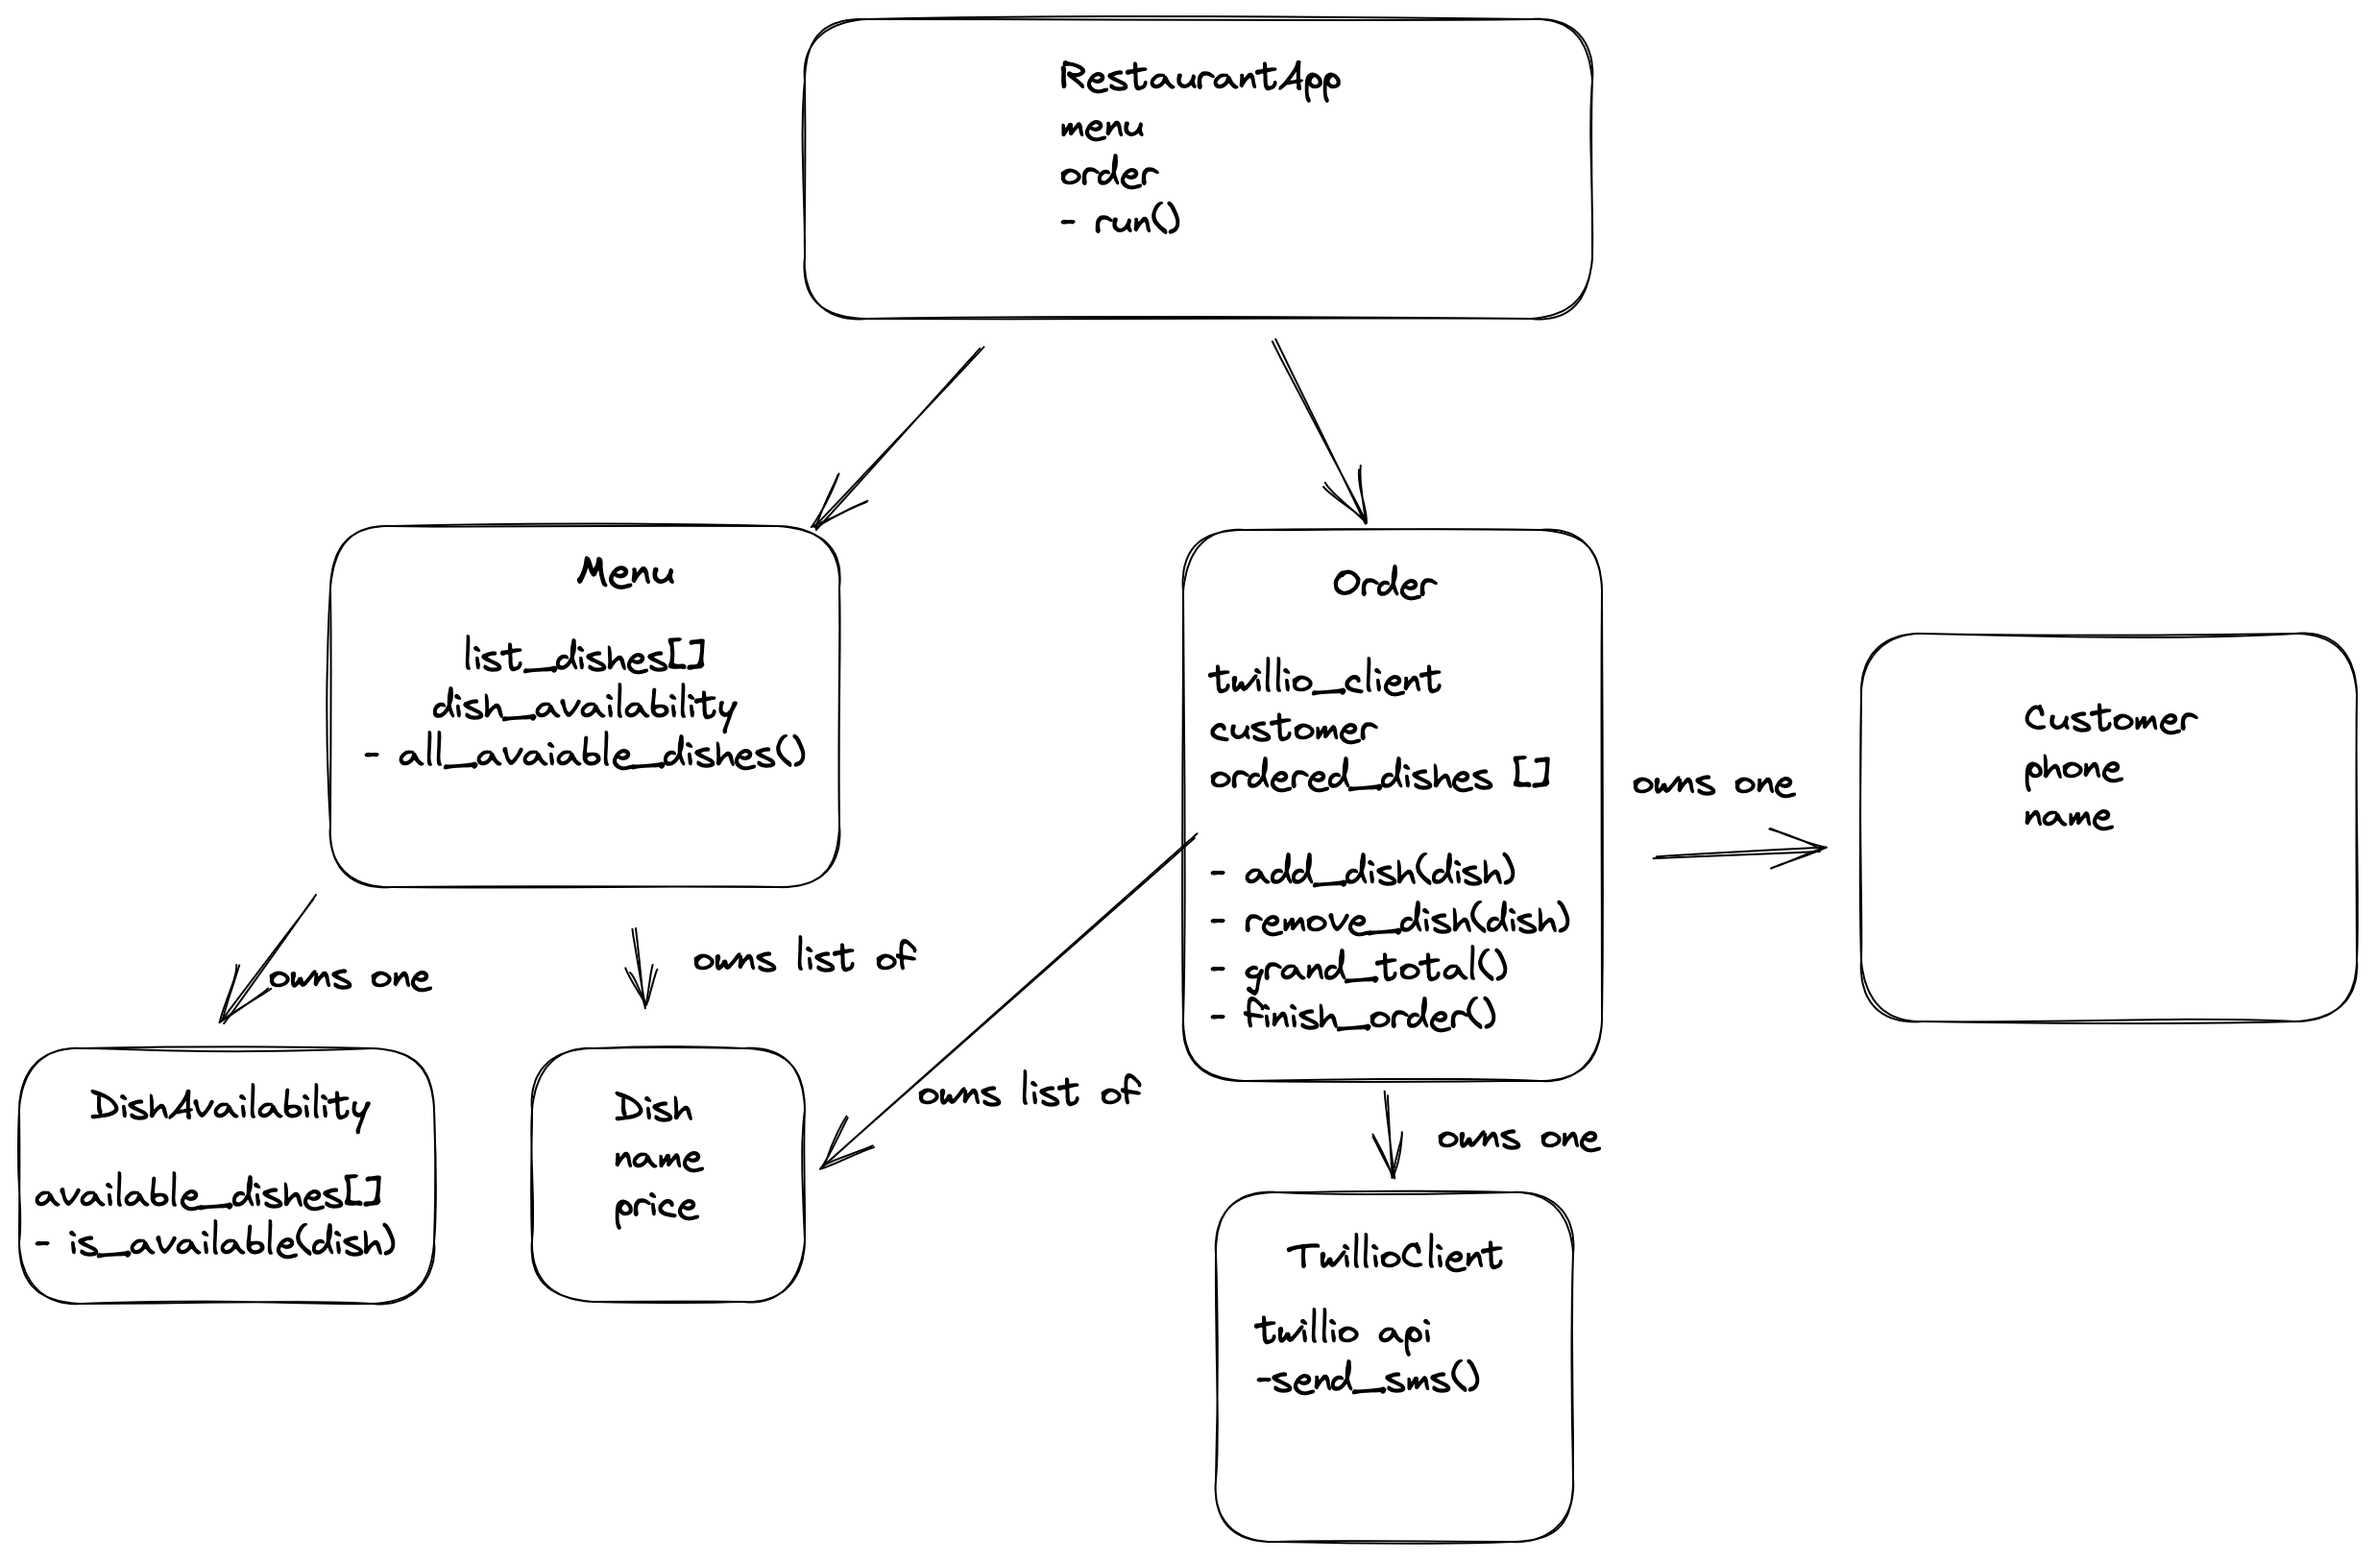
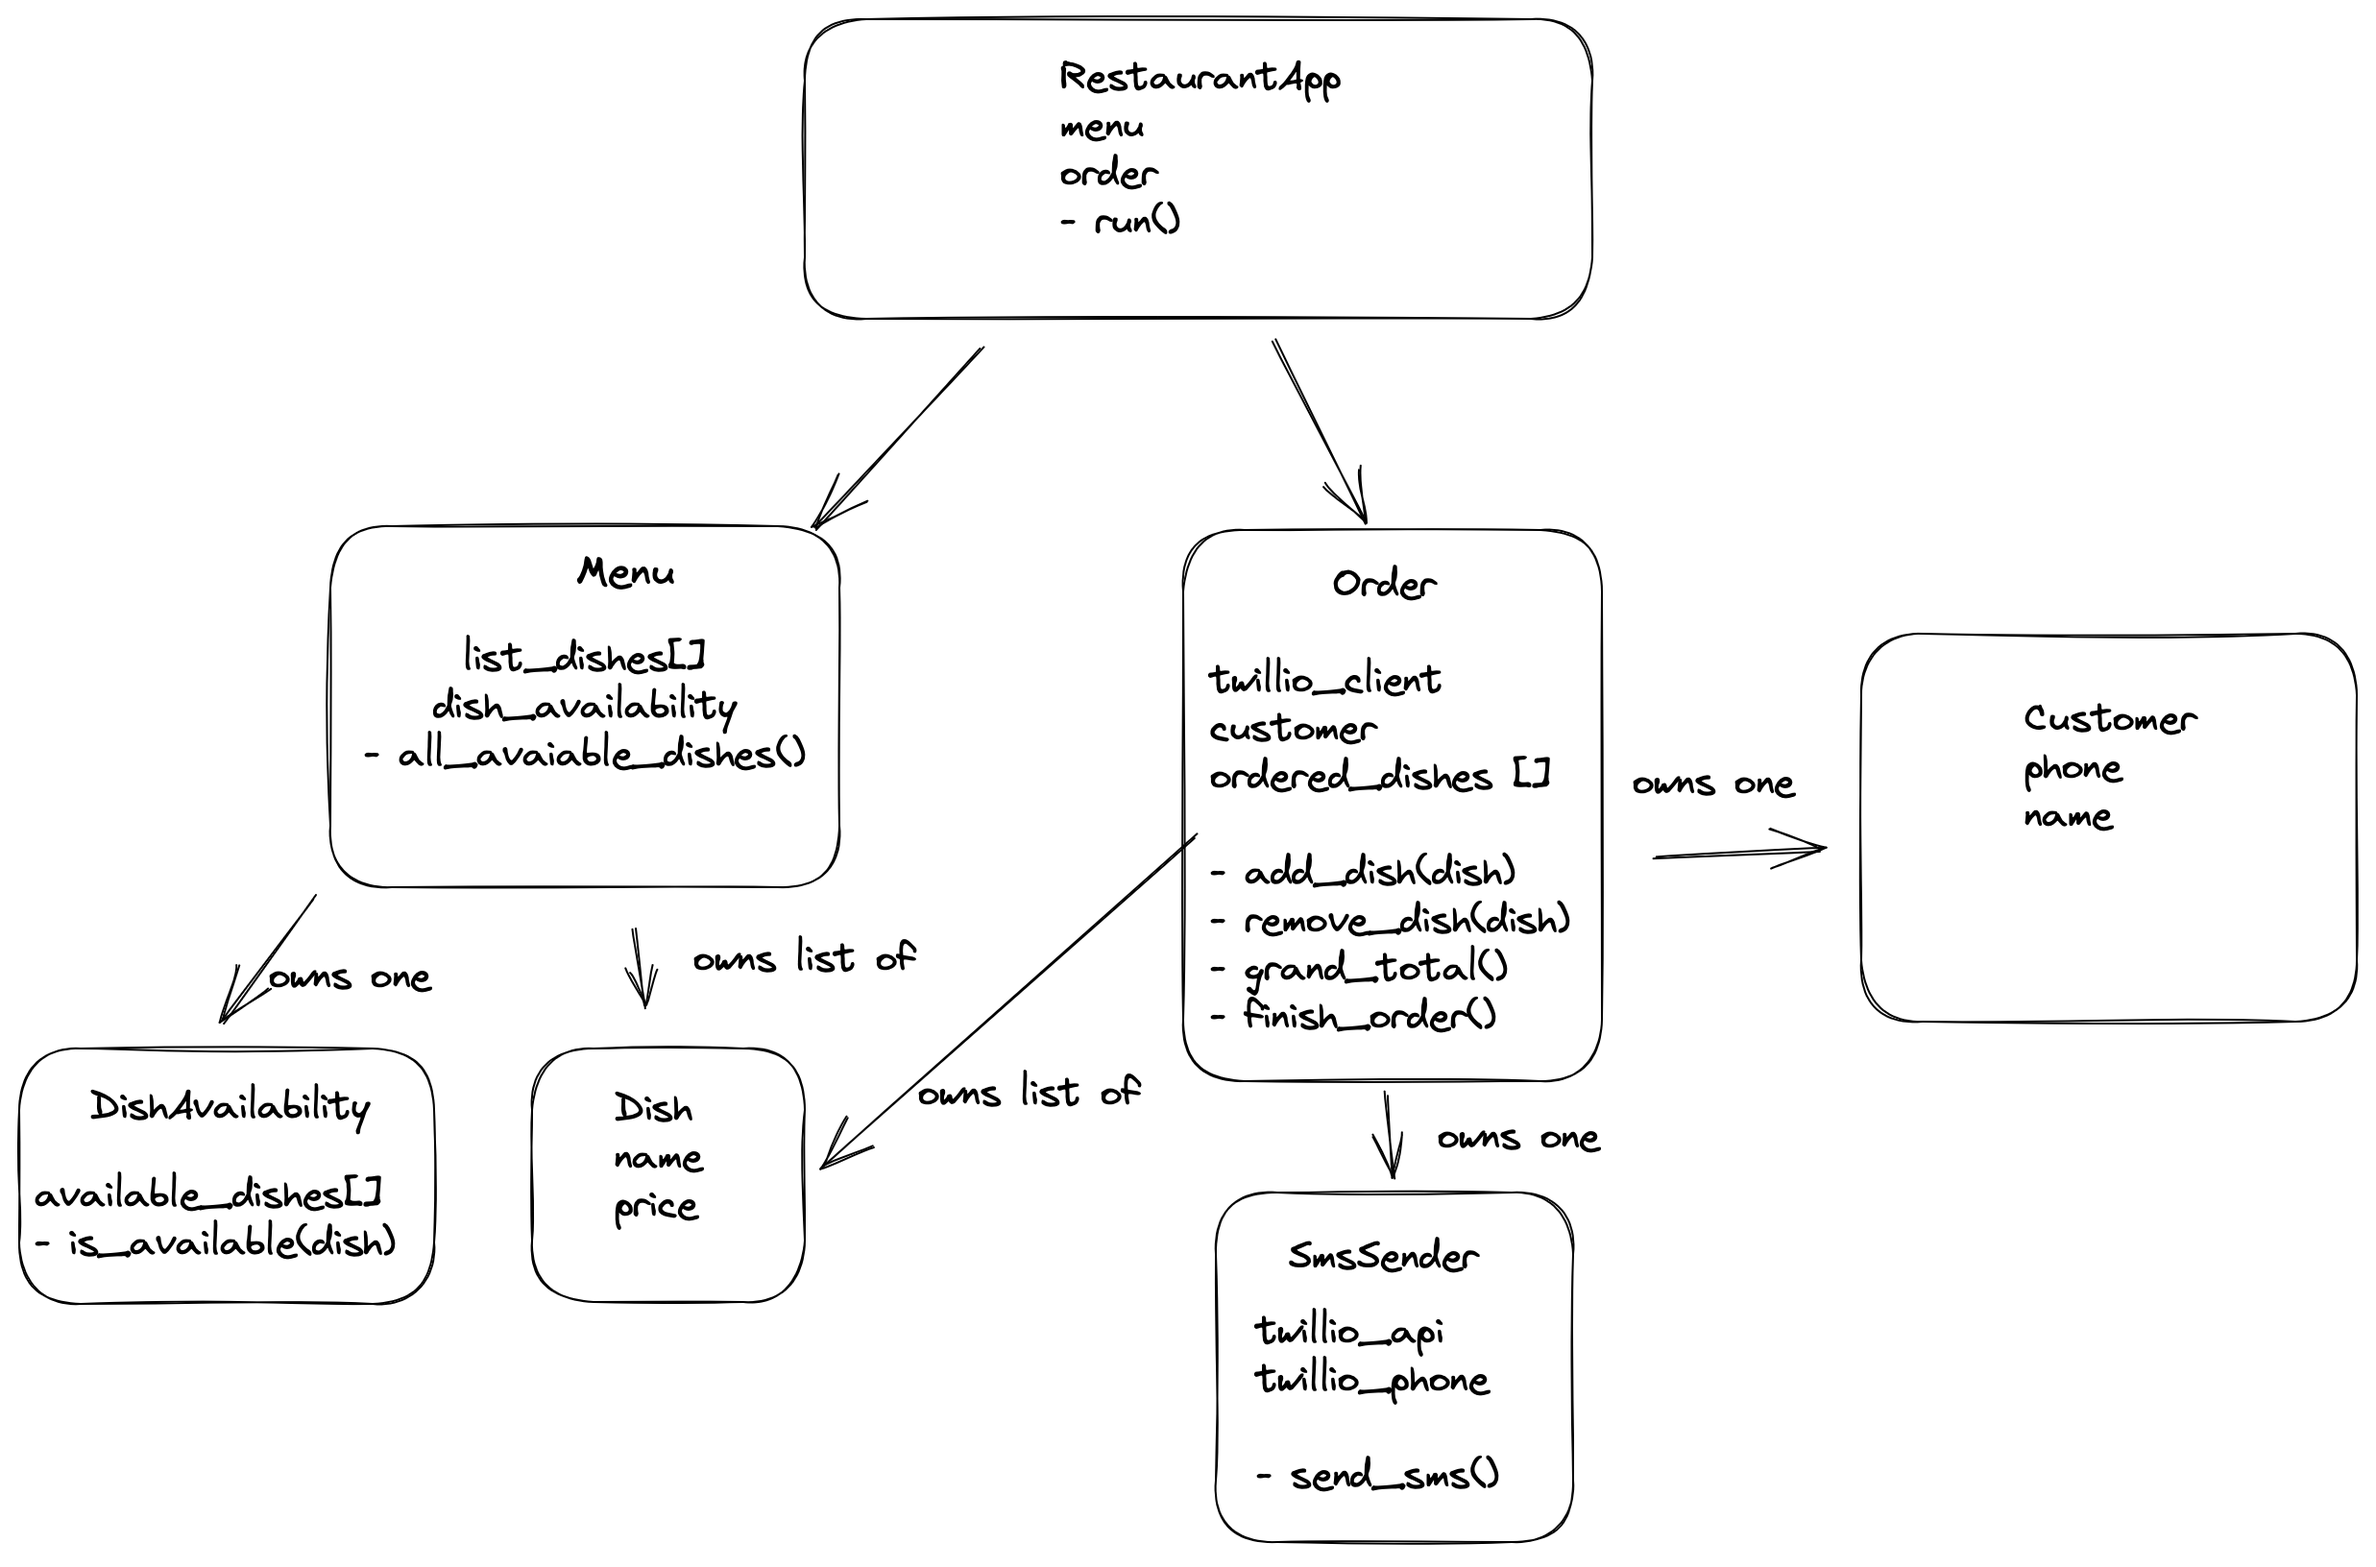
Rename TwillioClient class to SmsSender

diff --git a/spec/order_spec.rb b/spec/order_spec.rb
@@ -6,9 +6,9 @@ describe Order do
     it "should print all dishes added" do
     
       fake_customer = double :fake_customer
-      twillio_fake = double :twillio_fake
+      sms_sender_fake = double :twillio_fake
     
-      order = Order.new(fake_customer, twillio_fake)
+      order = Order.new(fake_customer, sms_sender_fake)
       fake_dish_1 = double :dish,  name: "Hamburguer", price: 9.0
       fake_dish_2 = double :dish,  name: "Carbonara", price: 10.0
 
@@ -22,9 +22,9 @@ describe Order do
     it "should remove dishes from order" do
     
       fake_customer = double :fake_customer
-      twillio_fake = double :twillio_fake
+      sms_sender_fake = double :twillio_fake
     
-      order = Order.new(fake_customer, twillio_fake)
+      order = Order.new(fake_customer, sms_sender_fake)
       fake_dish_1 = double :dish,  name: "Hamburguer", price: 9.0
       fake_dish_2 = double :dish,  name: "Carbonara", price: 10.0
 
@@ -40,12 +40,12 @@ describe Order do
       phone = "+447980752310"
       fake_customer = double :fake_customer, name: "Ana", phone: phone
 
-      twillio_fake = double :twillio_fake
+      sms_sender_fake = double :twillio_fake
       #success_msg = "Thank you, Ana! Your order was placed and will be delivered before 18:52"
 
-      #expect(twillio_fake).to receive(:send_sms).with(success_msg, phone).and_return
+      #expect(sms_sender_fake).to receive(:send_sms).with(success_msg, phone).and_return
 
-      order = Order.new(fake_customer, twillio_fake)
+      order = Order.new(fake_customer, sms_sender_fake)
       fake_dish_1 = double :dish,  name: "Hamburguer", price: 9.0
       fake_dish_2 = double :dish,  name: "Carbonara", price: 10.0
 
@@ -62,13 +62,13 @@ describe Order do
       phone = "+447980752310"
       fake_customer = double :fake_customer, name: "Ana", phone: phone
 
-      twillio_fake = double :twillio_fake
+      sms_sender_fake = double :twillio_fake
       #it will return 19:22 because is time + 30 min
       success_msg = "Thank you, Ana! Your order was placed, the total is: 19.0 and will be delivered before 19:22"
 
-      expect(twillio_fake).to receive(:send_sms).with(success_msg, phone).and_return("12345")
+      expect(sms_sender_fake).to receive(:send_sms).with(success_msg, phone).and_return("12345")
 
-      order = Order.new(fake_customer, twillio_fake)
+      order = Order.new(fake_customer, sms_sender_fake)
       fake_dish_1 = double :dish,  name: "Hamburguer", price: 9.0
       fake_dish_2 = double :dish,  name: "Carbonara", price: 10.0
 

diff --git a/lib/restaurant_app.rb b/lib/restaurant_app.rb
@@ -1,7 +1,7 @@
 require 'twilio-ruby'
 require_relative './dish'
 require_relative './customer'
-require_relative './twillio_client'
+require_relative './sms_sender'
 require_relative './order'
 require_relative './dish_availability'
 require_relative './menu'
@@ -14,11 +14,14 @@ class RestaurantApp
     dish_2 = Dish.new("Lasagna", 15.0)
     dish_3 = Dish.new("Hamburguer", 9.0)
     dish_4 = Dish.new("Fish and chips", 11.0)
-    dish_5 = Dish.new("Mince pie", 12.0)
+    dish_5 = Dish.new("Rib-eye Steak", 25.0)
+    dish_6 = Dish.new("Cod fish and rice", 22.0)
+    dish_7 = Dish.new("Smashed potato", 5.0)
+    dish_8 = Dish.new("soup of the day", 7.0)
 
-    dish_list = [dish_1,dish_2,dish_3,dish_4,dish_5]
+    dish_list = [dish_1,dish_2,dish_3,dish_4,dish_5, dish_6, dish_7,dish_8]
 
-    dish_array_available = [dish_1,dish_2,dish_3]
+    dish_array_available = [dish_1,dish_2,dish_3,dish_5]
     
     dish_availability =  DishAvailability.new(dish_array_available)
     
@@ -39,7 +42,7 @@ class RestaurantApp
     twillio_phone = ENV['REGISTERED_TWILLIO_PHONE']
     twillio_api = Twilio::REST::Client.new(account_sid, auth_token).messages
 
-    client = TwillioClient.new(twillio_api, twillio_phone)
+    client = SmsSender.new(twillio_api, twillio_phone)
 
     order = Order.new(customer, client)
 
@@ -97,4 +100,3 @@ class RestaurantApp
 end
 
 RestaurantApp.new.run
-

diff --git a/lib/sms_sender.rb b/lib/sms_sender.rb
@@ -1,4 +1,5 @@
-class TwillioClient
+class SmsSender
+  #I needed to passed twillio phone as parameter due the ENV variables
   def initialize(requester, twillio_phone) # requester is Twilio::REST::Client.new(account_sid, auth_token).messages
     @requester = requester
     @twillio_phone = twillio_phone
@@ -10,7 +11,7 @@ class TwillioClient
     # set up a client to talk to the Twilio REST API
     # @requester = Twilio::REST::Client.new(account_sid, auth_token).messages.create
 
-    # send an sms
+    # send a sms
     message = @requester.create(
       body: body,
       from: @twillio_phone,
@@ -26,6 +27,6 @@ end
 # require 'twilio-ruby'
 # account_sid = ENV['TWILIO_ACCOUNT_SID']
 # auth_token = ENV['TWILIO_AUTH_TOKEN']
-# client = # TwillioClient.new(Twilio::REST::Client.new(account_sid, auth_token).messages)
+# client = # SmsSender.new(Twilio::REST::Client.new(account_sid, auth_token).messages)
 # my_sid = client.send_sms("Ola 123 bom dia!", "+447960854247")
 # print my_sid

diff --git a/spec/sms_sender_spec.rb b/spec/sms_sender_spec.rb
@@ -1,6 +1,6 @@
-require 'twillio_client'
+require 'sms_sender'
 
-RSpec.describe TwillioClient do
+RSpec.describe SmsSender do
   it "calls an API to provide a suggested activity" do
 
    #mocking response from twillio API. Mocking the return message created when I send an SMS(confirmation)
@@ -11,12 +11,13 @@ RSpec.describe TwillioClient do
     twillio_phone ="+447700153097"
 
     #mocking twillio API (Twilio::REST::Client.new(account_sid, auth_token).messages.create)
+    #validation for the create method with the right parameters
     expect(requester_dbl).to receive(:create)
       .with(body: "My message test", from: twillio_phone, to: phone)
       .and_return(message)
 
-      twillio = TwillioClient.new(requester_dbl, twillio_phone)
-      expect(twillio.send_sms("My message test", phone)).to eq "some sid"
+      sms_sender = SmsSender.new(requester_dbl, twillio_phone)
+      expect(sms_sender.send_sms("My message test", phone)).to eq "some sid"
 
   end
 end

diff --git a/lib/order.rb b/lib/order.rb
@@ -4,9 +4,10 @@ class Order
 
   DELIVERY_TIME = 30 * 60 # 30 minutes in seconds
 
-  def initialize(customer, twillio_client) 
+  #I used sms as parameter because I wanted to make it easy to test.Otherwise would be difficult to mock
+  def initialize(customer, sms_sender) 
     @customer = customer
-    @twillio_client = twillio_client
+    @sms_sender = sms_sender
     @ordered_dishes = []
   end
 
@@ -36,7 +37,7 @@ class Order
     message = "Thank you, #{@customer.name}! Your order was placed, the total "
     .concat("is: #{grand_total} and will be delivered before #{deliver_before.strftime('%H:%M')}")
 
-    @twillio_client.send_sms(message, @customer.phone)
+    @sms_sender.send_sms(message, @customer.phone)
     message
   end
 end

diff --git a/spec/order_integration_spec.rb b/spec/order_integration_spec.rb
@@ -1,7 +1,7 @@
 require 'order'
 require 'dish'
 require 'customer'
-require 'twillio_client'
+require 'sms_sender'
 
 describe Order do
   context "#grand_total" do
@@ -67,9 +67,9 @@ describe Order do
         .with(body: body, from: twillio_fone, to: customer.phone)
         .and_return(expected_response_from_twillio_api)
   
-        twillio = TwillioClient.new(fake_twillio_api, twillio_fone)
+        sms_sender = SmsSender.new(fake_twillio_api, twillio_fone)
 
-        order_1 = Order.new(customer, twillio)
+        order_1 = Order.new(customer, sms_sender)
         order_1.add(dish_1)
         order_1.add(dish_2)
 

diff --git a/README.md b/README.md
@@ -45,7 +45,7 @@ class Dish
 end
 
 class Order
-  def initialize(menu, twillio_client)
+  def initialize(menu, sms_sender)
   #arr dishes ordered
   end
 
@@ -66,7 +66,7 @@ class Order
   end
 end
 
-class TwillioClient
+class SmsSender
   def initialize(twillio_api)
   end
   
@@ -152,7 +152,7 @@ order_1 = Order.new(customer)
 order_1.add(dish_1)
 order_1.add(dish_2)
 
-twillio = TwillioClient.new(requester_dbl, twillio_phone)
+sms_sender = SmsSender.new(requester_dbl, twillio_phone)
 
 order_1.finish_order #=>"Thank you, #{name}! Your order was placed and will be delivered before 18:52"
 
@@ -215,10 +215,10 @@ menu.all_avaiable_dishes # => [fake_dish_1]
 phone = "+447980752310"
 fake_customer = double :fake_customer, name: "Ana", phone: phone
 
-twillio_fake = double :twillio_fake
+twillio_fake = double :sms_sender_fake
 success_msg = "Thank you, Ana! Your order was placed and will be delivered before 18:52"
 
-expect(twillio_fake).to reiceve(:send_sms).with(success_msg, phone).and_return
+expect(sms_sender_fake).to reiceve(:send_sms).with(success_msg, phone).and_return
 
 order = Order(fake_customer)
 fake_dish_1 = double :dish,  name: "Hamburguer", price: 9.0
@@ -235,7 +235,7 @@ order.finish_order #=> success_msg
 
 ## 5. How to execute
 
-In order for TwillioClient to work it is necessary to setup 
+In order for SmsSender to work it is necessary to setup 
 the following ENV variables:
 
 ```
